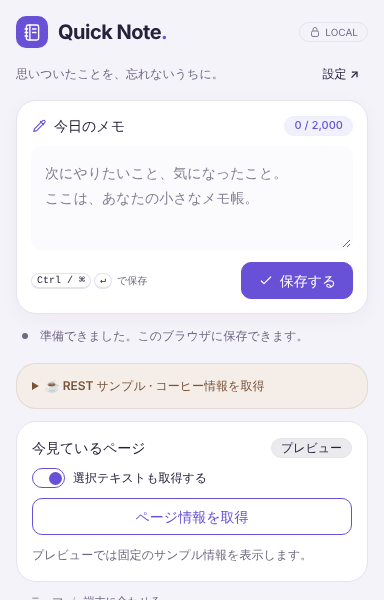
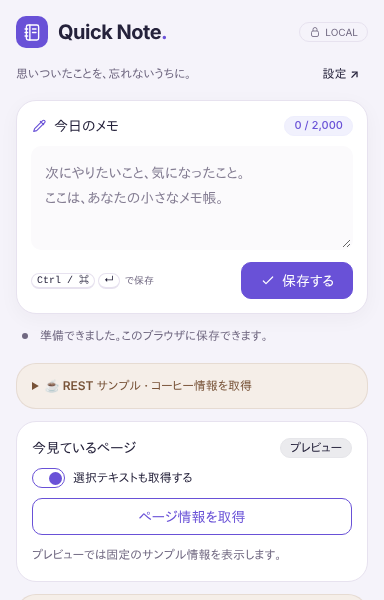
docs: describe alarms, install tasks, the shared badge and content scripts
worker.md covers registering alarms and install tasks, the badge slots and per-tab badge, and when to inject a function or a built content script; the samples, their removal, the tests and what was checked in Chromium are updated. The popup and side panel screenshots are retaken with the new section, and the welcome page is added.

diff --git a/docs/testing.md b/docs/testing.md
@@ -12,11 +12,14 @@
 | `tests/infrastructure/storage.test.ts` | 保存 Input と復元 Output の同時指定、異なる型での保存・復元、不正な保存形式の拒否、I/O エラーの伝達、`update` による現在の値からの更新、同時に走る `update` と `save` の直列化、同じ実行環境のロックと Web Locks の順序 |
 | `tests/infrastructure/http.test.ts` | JSON の送受信、状態コード付きの HTTP エラー、通信失敗・時間切れ・中断の区別、方針に従う再試行（GET のみ・回数と時間の上限・Retry-After）、待機中の中断 |
 | `tests/infrastructure/changes.test.ts` | 指定した local storage のキーの通知と購読解除。データは機能に依存しない任意の値 |
-| `tests/infrastructure/messaging.test.ts` | 要求・応答の両方の検証、不正な要求で処理を実行しないこと、エラーの伝達、自分宛てでないメッセージの無視、同じ拡張からの要求だけへの返信 |
+| `tests/infrastructure/messaging.test.ts` | 要求・応答の両方の検証、不正な要求で処理を実行しないこと、入力のない要求が JSON で送られても届くこと、エラーの伝達、自分宛てでないメッセージの無視、同じ拡張からの要求だけへの返信 |
 | `tests/infrastructure/context-menus.test.ts` | インストール時の項目の作り直し、クリックの振り分け、失敗の通知、ID 重複の拒否 |
 | `tests/infrastructure/commands.test.ts` | ショートカットの名前による振り分け、タブ情報の検証、失敗の通知、名前の重複の拒否 |
+| `tests/infrastructure/alarms.test.ts` | 繰り返すアラームのインストール時・起動時の作成（同じ間隔なら作り直さない）、名前による振り分け、失敗の通知、重複と短すぎる間隔の拒否、一度だけのアラームの予約と取り消し |
+| `tests/infrastructure/lifecycle.test.ts` | インストール・更新の理由の検証と全処理への受け渡し、一つの失敗で他を止めないこと、名前の重複の拒否 |
+| `tests/infrastructure/badge.test.ts` | 共有のバッジの優先度による表示と切り替え、別の実行環境からの消去と再起動後の描き直し、壊れた保存値の無視、タブごとのバッジの表示と解除 |
 | `tests/infrastructure/i18n.test.ts` | ロケールの選択と既定への切り替え、プレースホルダーと置換、カタログの言語タグ、未定義の文言 |
-| `tests/extension/build.test.ts` | 出力された Manifest V3 の基本項目、登録画面・worker・worker が読み込むファイル・content script・アイコンの存在、画面が参照する JS/CSS の存在、manifest が参照する文言と全ロケールのキー・プレースホルダーの一致、manifest と `package.json` のバージョンの一致 |
+| `tests/extension/build.test.ts` | 出力された Manifest V3 の基本項目、登録画面・worker・worker が読み込むファイル・content script・アイコンの存在、全 HTML ページが参照する JS/CSS の存在、注入用の content script が import・export のない単独のファイルであること、manifest が参照する文言と全ロケールのキー・プレースホルダーの一致、manifest と `package.json` のバージョンの一致 |
 
 拡張の構成テストは `dist/popup/manifest.json` または `dist/sidepanel/manifest.json` から対象を読み取ります。ポップアップのファイル名、
 個別のサイトの権限、設定画面の有無、サンプルの名称を期待値にしません。
@@ -25,6 +28,7 @@
 
 worker が `src/ui`・Solid を読み込んでいないこと、動的 import を使っていないことは、テストではなくビルドで確認します。
 `vite.config.ts` の `worker-boundary` が worker から静的に読み込まれるファイルをたどり、違反があればビルドを失敗させます。
+`src/content/` の content script も、`content-scripts` が同じ確認をします。
 ページに注入する関数（`executeScript` の `func`）は DOM を使うため worker の出力にも含まれますが、ページ内でだけ実行されます。
 
 API と Chrome のイベントはテスト内の代替実装を注入します。

diff --git a/docs/samples.md b/docs/samples.md
@@ -7,8 +7,8 @@
 
 | 区分 | 内容 |
 | --- | --- |
-| ベース | 起動点と画面の枠（ポップアップ・サイドパネル・設定画面）、テーマの設定、service worker の起動と登録の仕組み、メッセージ通信・右クリックメニュー・多言語化・保存・HTTP の基盤、検証の仕組み、ビルドと配布物のテスト、E2E の補助 |
-| サンプル | メモ（保存・REST の取り込み・右クリックからの追加・他画面への追従）、ページ取得（選択テキストの取得の設定を含む）、サイドパネルのサイト単位の許可、`tests/examples/` と `tests/e2e/samples/` の参考テスト |
+| ベース | 起動点と画面の枠（ポップアップ・サイドパネル・設定画面）、テーマの設定と書き出し・読み込み、service worker の起動と登録の仕組み、メッセージ通信・右クリックメニュー・ショートカット・アラーム・インストール時の処理・バッジ・ページ上の通知・content script のビルドの基盤、多言語化・保存・HTTP の基盤、検証の仕組み、ビルドと配布物のテスト、E2E の補助 |
+| サンプル | メモ（保存・REST の取り込み・右クリックとショートカットからの追加・元に戻す・見直しリマインダー・他画面への追従）、コーヒーの新着（定期確認とバッジ）、インストール時の案内ページ、ページ取得（選択テキストの取得の設定を含む）、サイドパネルのサイト単位の許可、`tests/examples/` と `tests/e2e/samples/` の参考テスト |
 
 画面の枠は、起動点が配置した機能の部品を表示します。部品が一つもないときは「ここに機能を追加します」と表示します。
 機能の組み立ては `composition/<機能>.ts` にまとめ、画面と worker の両方から使います。
@@ -41,7 +41,7 @@ pnpm run check:sidepanel
 止まります。`--force` を付けると確認せずに続行します。ZIP で取得した場合は、`git init` してコミットしてから実行するのが安全です。
 
 - サンプルのファイルと、印で囲んだ部分を削除する。
-- manifest からサンプル用の権限（`activeTab`・`scripting`・`contextMenus`）と SampleAPIs の host permission、
+- manifest からサンプル用の権限（`activeTab`・`scripting`・`contextMenus`・`alarms`）と SampleAPIs の host permission、
   サンプルのショートカット（`commands` の `append-selection`）を削除する。拡張を開く `_execute_action` は残ります。
   サイドパネル版の `tabs`・`optional_host_permissions` は `vite.config.ts` の印の中にあり、一緒に消えます。
 - `package.json` からサンプル用のスクリプト（`test:examples`・`samples:remove`・`samples:verify`）を削除する。
@@ -50,7 +50,8 @@ pnpm run check:sidepanel
 - README・ドキュメントのうち、サンプル専用のコマンドや参考テスト、このガイドへの案内を削除する。
 
 削除後に残るのは、テーマを切り替えられる空の画面、設定の書き出し・読み込み、何も登録していない worker、ベースのテストです。
-ショートカット・バッジ・ページ上の通知の仕組み（`infrastructure/commands.ts`・`badge.ts`・`page-toast.ts`）もベースとして残ります。
+ショートカット・アラーム・インストール時の処理・バッジ・ページ上の通知の仕組み（`infrastructure/commands.ts`・`alarms.ts`・`lifecycle.ts`・`badge.ts`・
+`page-toast.ts`・`page-scripts.ts`）と、`src/content/` をビルドする仕組みもベースとして残ります。アラームを使うときは `alarms` 権限を manifest に戻してください。
 ドキュメントのうち印で囲んだ部分は消えますが、サンプルを例にした説明の文章は残るので、必要に応じて整理してください。
 製品名は `_locales` の `appName`（画面の見出しとタブの題名）と、`extensionName*`・`actionTitle*`（manifest）で変えます。
 `docs/screenshots/` もサンプル入りの画面なので、自分の画面で撮り直してください。

diff --git a/docs/screenshots/README.md b/docs/screenshots/README.md
@@ -4,8 +4,9 @@
 - `popup-dark.png`: ダークテーマの初期表示。
 - `options-light.png` / `options-dark.png`: 設定画面の初期表示。
 - `sidepanel-light.png` / `sidepanel-dark.png`: サイドパネル用画面の初期表示。
+- `welcome-light.png` / `welcome-dark.png`: インストール時に開く案内ページ（ブラウザプレビューのため、ショートカットは固定の例）。幅 900 px の全ページ。
 - 末尾が `-en` のファイル: 同じ画面の英語表示。
-- 取得日: 2026-11-05（日本時間）。設定画面は、書き出し・読み込みを追加した後に撮り直しています。
+- 取得日: 2026-11-05（日本時間）。ポップアップ・サイドパネルはコーヒーの新着を、設定画面は書き出し・読み込みを追加した後に撮り直しています。
 - 対象: `pnpm run build:popup` / `pnpm run build:sidepanel` で生成した `dist/popup/` / `dist/sidepanel/` のブラウザプレビュー。
 - ブラウザ: Chromium 153.0.8010.12、デバイススケール 1。
 - ポップアップは文書幅 384 CSS px、高さ上限 600 px の body。設定画面は幅 1100 px の全ページ。
